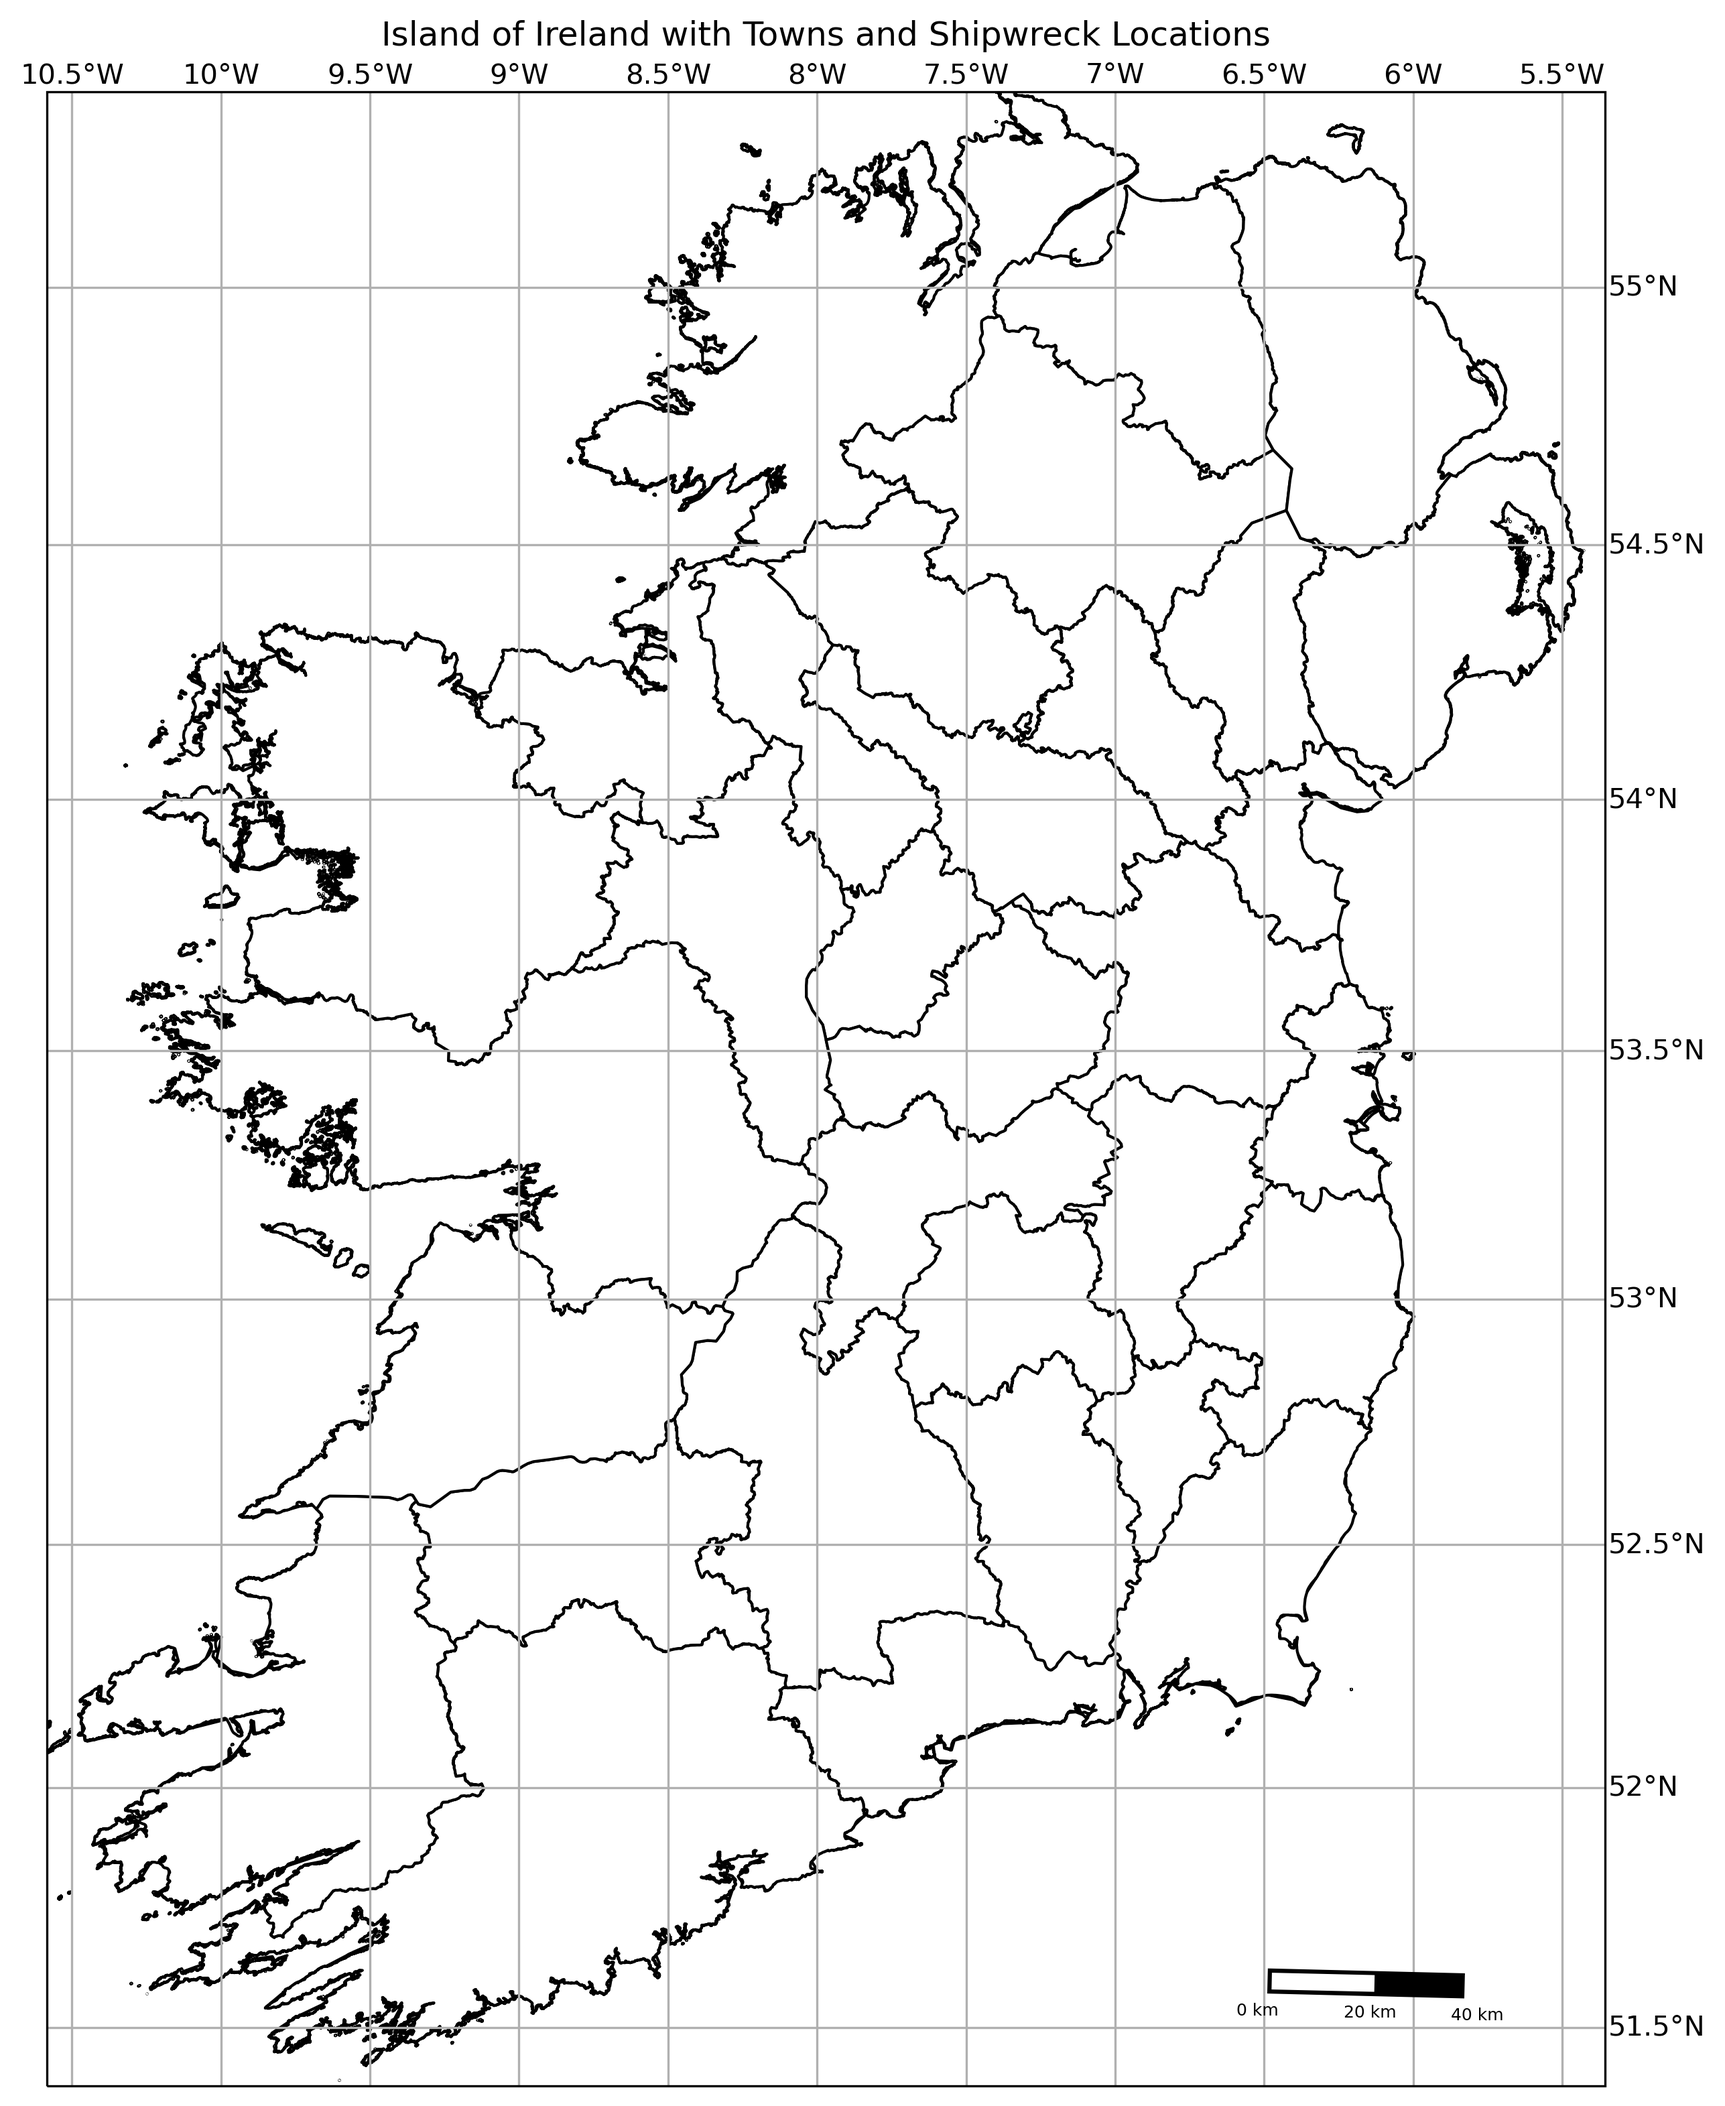
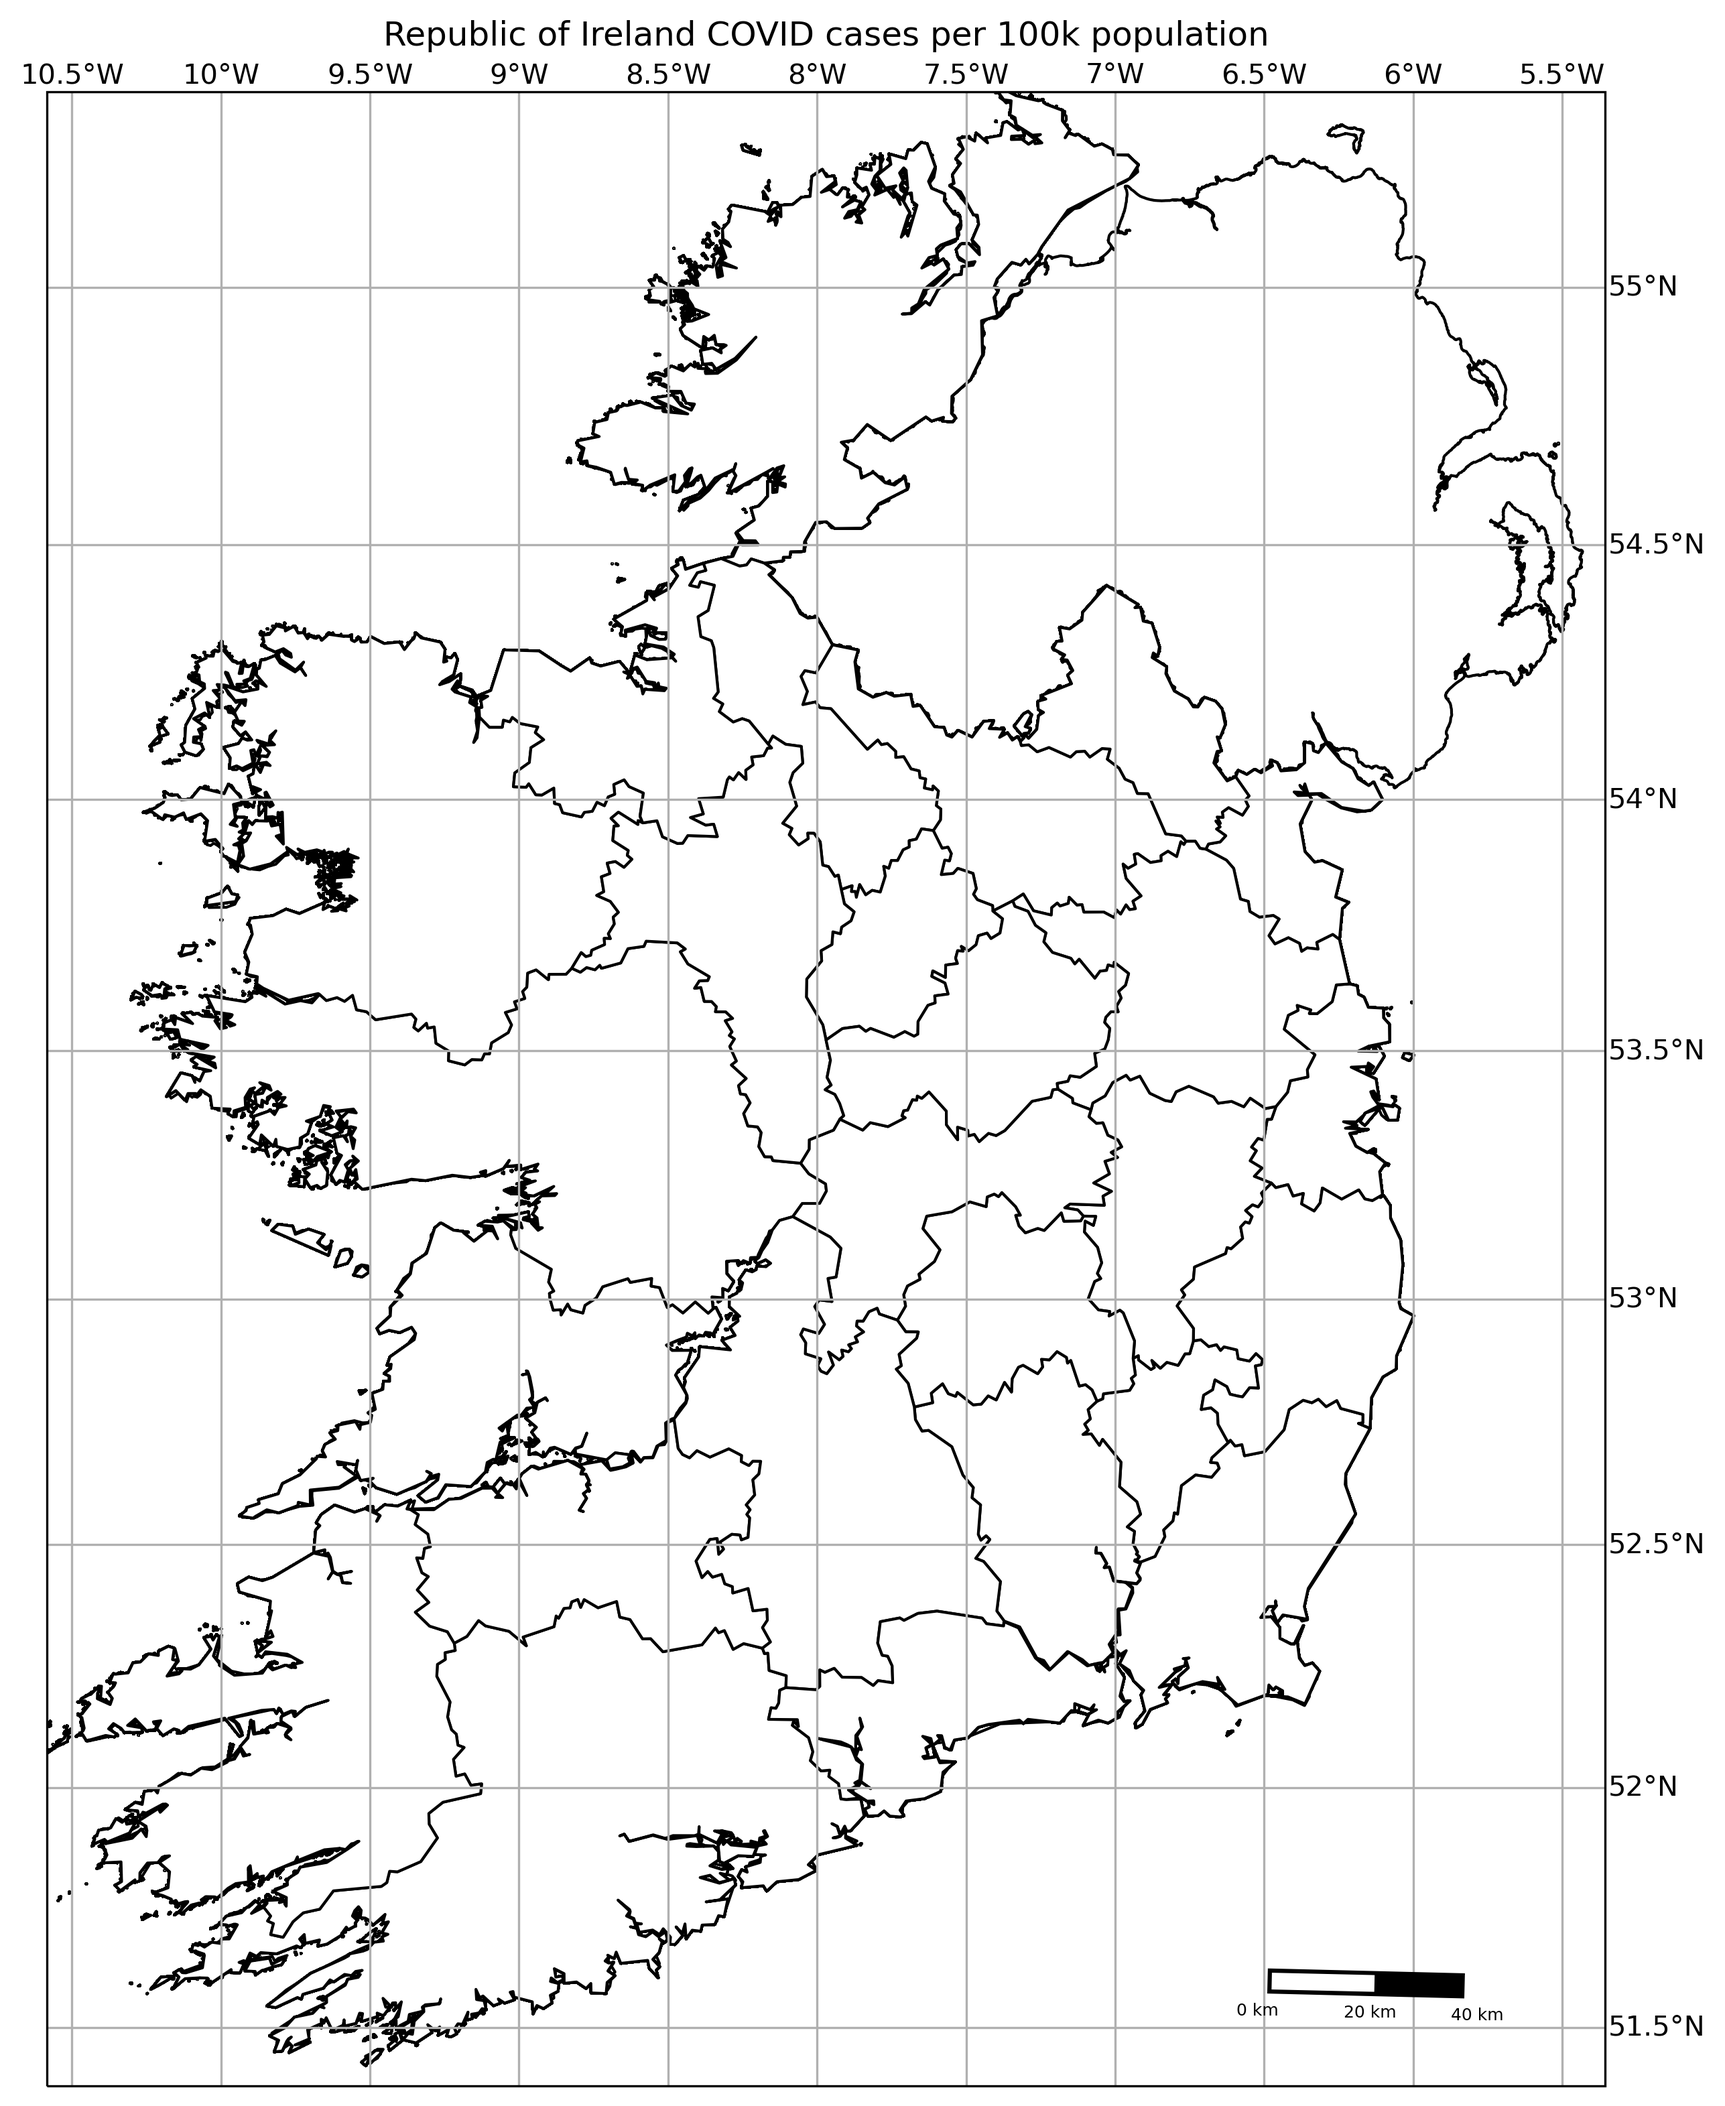
Adding to gitignore

diff --git a/GIS_Tool.py b/GIS_Tool.py
@@ -3,24 +3,10 @@ import matplotlib.pyplot as plt
 import cartopy.crs as ccrs
 import matplotlib.patches as mpatches
 import matplotlib.lines as mlines
-
-
 import pandas as pd
 from cartopy.feature import ShapelyFeature
 from shapely.geometry import Point, LineString, Polygon
 
-
-# %matplotlib notebook #not sure if this is required for the work that I am doing
-
-plt.ion() # make the plotting interactive
-
-# generate matplotlib handles to create a legend of the features we put in our map.
-def generate_handles(labels, colors, edge='k', alpha=1):
-    lc = len(colors)  # get the length of the color list
-    handles = []
-    for i in range(len(labels)):
-        handles.append(mpatches.Rectangle((0, 0), 1, 1, facecolor=colors[i % lc], edgecolor=edge, alpha=alpha))
-    return handles
 
 
 # create a scale bar of length 40 km in the lower right corner of the map
@@ -43,16 +29,22 @@ def scale_bar(ax, location=(0.9, 0.05)):
     plt.text(sbx - 50000, sby - 8000, '0 km', transform=tmc, fontsize=6)
 
 
+
 # load the outline of Northern Ireland and Ireland
 outline = gpd.read_file('data_files/Ireland.shp')
 outline = outline.to_crs(epsg=2158)
+
+
 
 #load datasets for display on map
 #water = gpd.read_file('data_files/Ire_Water.shp')
 #water = water.to_crs(epsg=2158)
 
-counties = gpd.read_file('data_files/Ire_Counties.shp')
-counties = counties.to_crs(epsg=2158)
+#counties = gpd.read_file('data_files/Ire_Counties.shp')
+#counties = counties.to_crs(epsg=2158)
+
+COVID_Stats = gpd.read_file('data_files/Covid19CountyStatisticsHPSCIreland.shp')
+COVID_Stats = COVID_Stats.to_crs(epsg=2158)
 
 
 
@@ -78,11 +70,23 @@ gridlines.left_labels = False # turn off the left-side labels
 gridlines.bottom_labels = False # turn off the bottom labels
 
 #add datafiles to map
+
+COVID_Cases = ShapelyFeature(COVID_Stats['geometry'], myCRS,
+                            edgecolor='k',
+                            facecolor='w',
+                            linewidth=1)
+ax.add_feature(COVID_Cases)
+
+
+""" Adding Ireland Counties to Map
 Counties = ShapelyFeature(counties['geometry'], myCRS,
                             edgecolor='k',
                             facecolor='w',
                             linewidth=1)
 ax.add_feature(Counties)
+
+"""
+
 """ Adding Water bodies to the map
 Waterbodies = ShapelyFeature(water['geometry'], myCRS,
                             edgecolor='mediumblue',
@@ -92,9 +96,8 @@ ax.add_feature(Waterbodies)
 
 """
 
-
 scale_bar(ax) #Add scale bar to map
 
-ax. set(title='Island of Ireland with Towns and Shipwreck Locations') # Apply Title to Map of Ireland with Towns
+ax.set(title='Republic of Ireland COVID cases per 100k population') # Apply Title to Map of Ireland with Towns
 
 myFig.savefig('map.png', bbox_inches='tight', dpi=300) #Save Map of Ireland as png file
